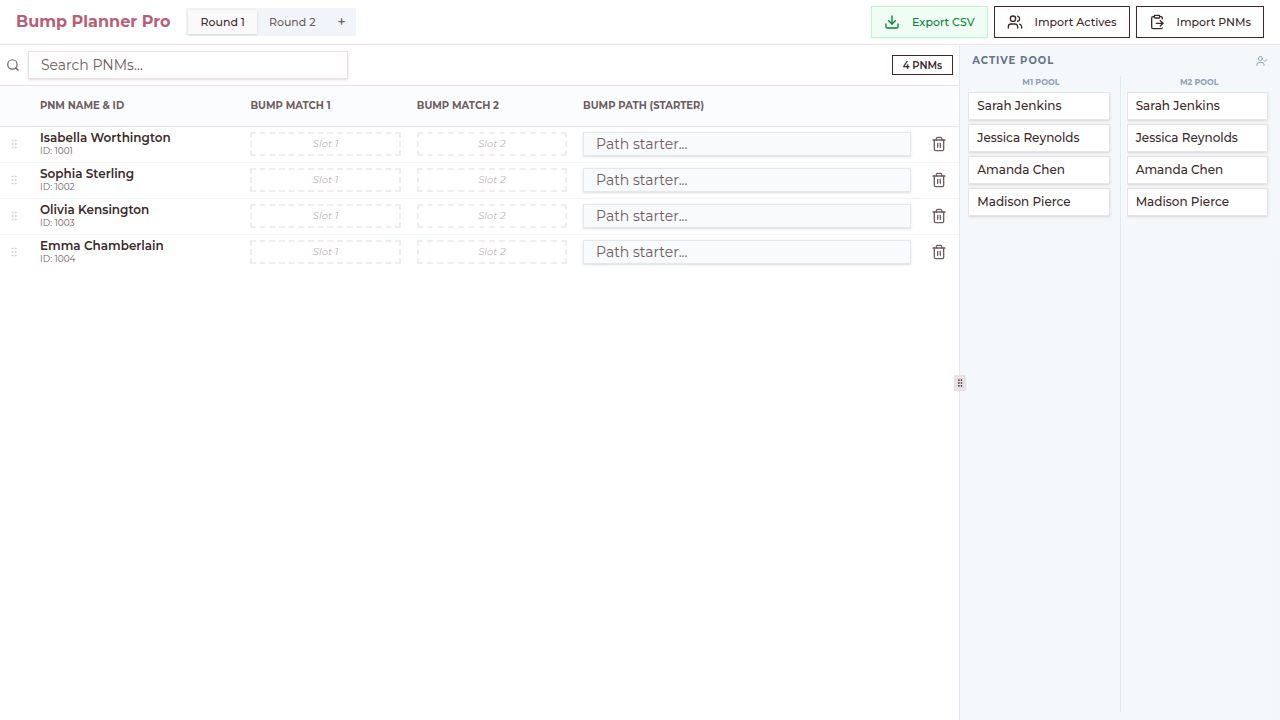
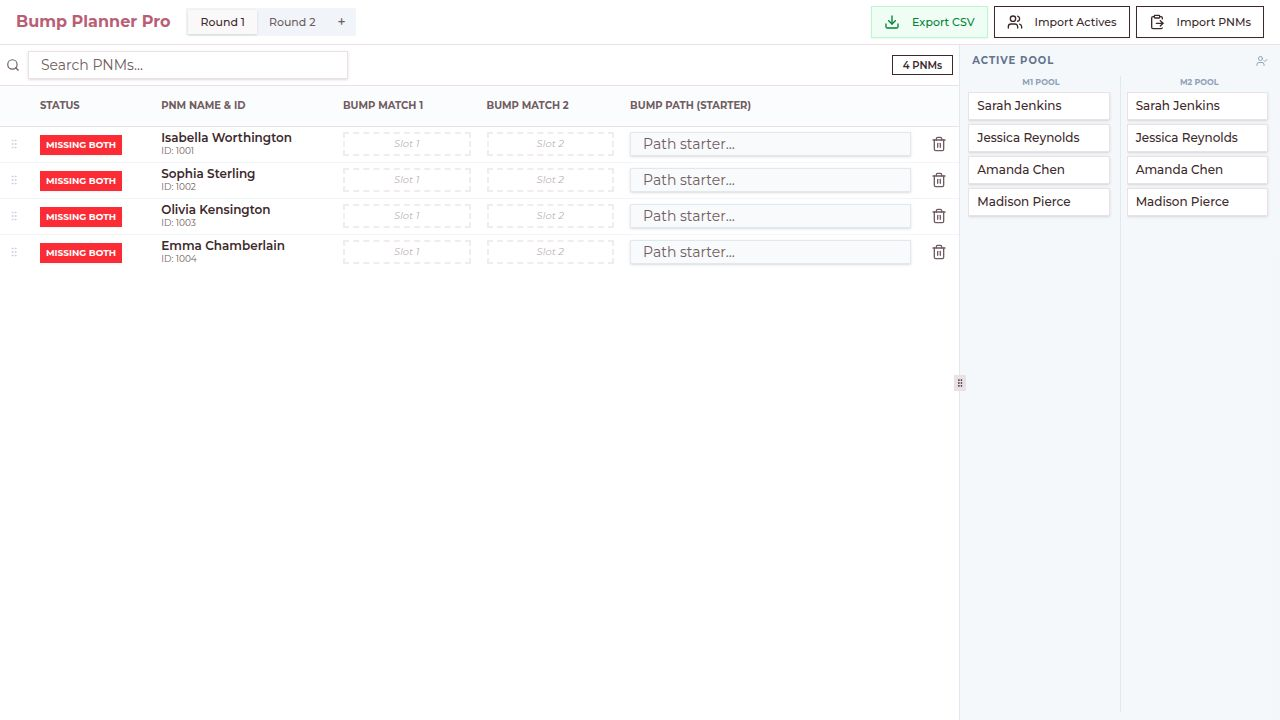
Add a status indicator to potential new member matches
Adds a new "Status" column to the PNM table, displaying colored badges (Ready, Missing 1, Missing Both) based on match completion.

Replit-Commit-Author: Agent
Replit-Commit-Session-Id: 38a8cf79-ac95-47f4-b238-5ee4f7307693
Replit-Commit-Checkpoint-Type: full_checkpoint
Replit-Commit-Event-Id: 976bb8d2-bfb3-422e-908f-446dceb94708
Replit-Commit-Screenshot-Url: https://storage.googleapis.com/screenshot-production-us-central1/461f320f-3784-4a51-a7ee-7f857bf5cde1/38a8cf79-ac95-47f4-b238-5ee4f7307693/Fe63KEL
Replit-Helium-Checkpoint-Created: true

diff --git a/client/src/components/recruitment/SortablePNMRow.tsx b/client/src/components/recruitment/SortablePNMRow.tsx
@@ -5,6 +5,7 @@ import PNMDropZone from "./PNMDropZone";
 import { Button } from "@/components/ui/button";
 import { TableCell, TableRow } from "@/components/ui/table";
 import { Input } from "@/components/ui/input";
+import { Badge } from "@/components/ui/badge";
 import { Trash2, GripVertical } from "lucide-react";
 import { cn } from "@/lib/utils";
 
@@ -31,6 +32,18 @@ export default function SortablePNMRow({ pnm, actives, onUnmatch, onDelete, onBu
     transition,
   };
 
+  const filledCount = [pnm.matchedWith, pnm.secondMatch].filter(Boolean).length;
+  
+  const getStatusBadge = () => {
+    if (filledCount === 2) {
+      return <Badge className="bg-green-500 hover:bg-green-600 text-white border-none rounded-none text-[9px] h-5 px-1.5 uppercase font-bold">Ready</Badge>;
+    }
+    if (filledCount === 1) {
+      return <Badge className="bg-amber-400 hover:bg-amber-500 text-white border-none rounded-none text-[9px] h-5 px-1.5 uppercase font-bold text-nowrap">Missing 1</Badge>;
+    }
+    return <Badge className="bg-red-500 hover:bg-red-600 text-white border-none rounded-none text-[9px] h-5 px-1.5 uppercase font-bold text-nowrap">Missing Both</Badge>;
+  };
+
   return (
     <TableRow 
       ref={setNodeRef} 
@@ -48,6 +61,9 @@ export default function SortablePNMRow({ pnm, actives, onUnmatch, onDelete, onBu
         >
           <GripVertical className="h-3 w-3" />
         </div>
+      </TableCell>
+      <TableCell className="py-0.5">
+        {getStatusBadge()}
       </TableCell>
       <TableCell className="py-0.5">
         <div className="flex flex-col">

diff --git a/client/src/pages/dashboard.tsx b/client/src/pages/dashboard.tsx
@@ -284,6 +284,7 @@ export default function Dashboard() {
                   <TableHeader className="bg-slate-50/50 sticky top-0 z-20">
                     <TableRow className="hover:bg-transparent">
                       <TableHead className="w-8"></TableHead>
+                      <TableHead className="py-1 h-7 text-[10px] uppercase font-bold">Status</TableHead>
                       <TableHead className="py-1 h-7 text-[10px] uppercase font-bold">PNM Name & ID</TableHead>
                       <TableHead className="py-1 h-7 text-[10px] uppercase font-bold">Bump Match 1</TableHead>
                       <TableHead className="py-1 h-7 text-[10px] uppercase font-bold">Bump Match 2</TableHead>
